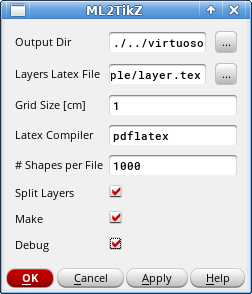
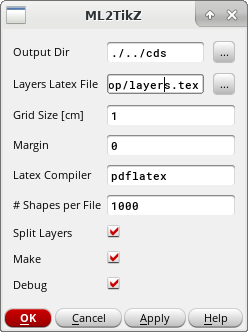
added margin

diff --git a/README.md b/README.md
@@ -89,11 +89,15 @@ The LaTeX compiler, which should be used. If this parameter is not provided *pdf
 
 The grid side of the *tikzpicture* in centimeters. If this value is not provided, 1cm is used as a default value.
 
-` bDebug `
+`nMargin`
+
+The margin of the *tikzpicture*. If this value is not provided, no margin is drawn.
+
+`bDebug`
 
 If this parameter is true, the [intermediate cellviews](#implementation-details) are not deleted at the end.
 
-` xShapesPerFile `
+`xShapesPerFile`
 
 Due to limited memory, a *tikzpicture* can contain only a limited number of shapes. This parameter can be used to control the maximum number of shapes that are within one *tikzpicture*. If the maskLayout to be exported contains more shapes that specified by this parameter, the maskLayout will be splitted automatically in several TeX files, s.t. the maximum number of shapes per single file is not exceeded. The compilation results of the individual TeX files will be merged in a final *tikzpicture*.
 
